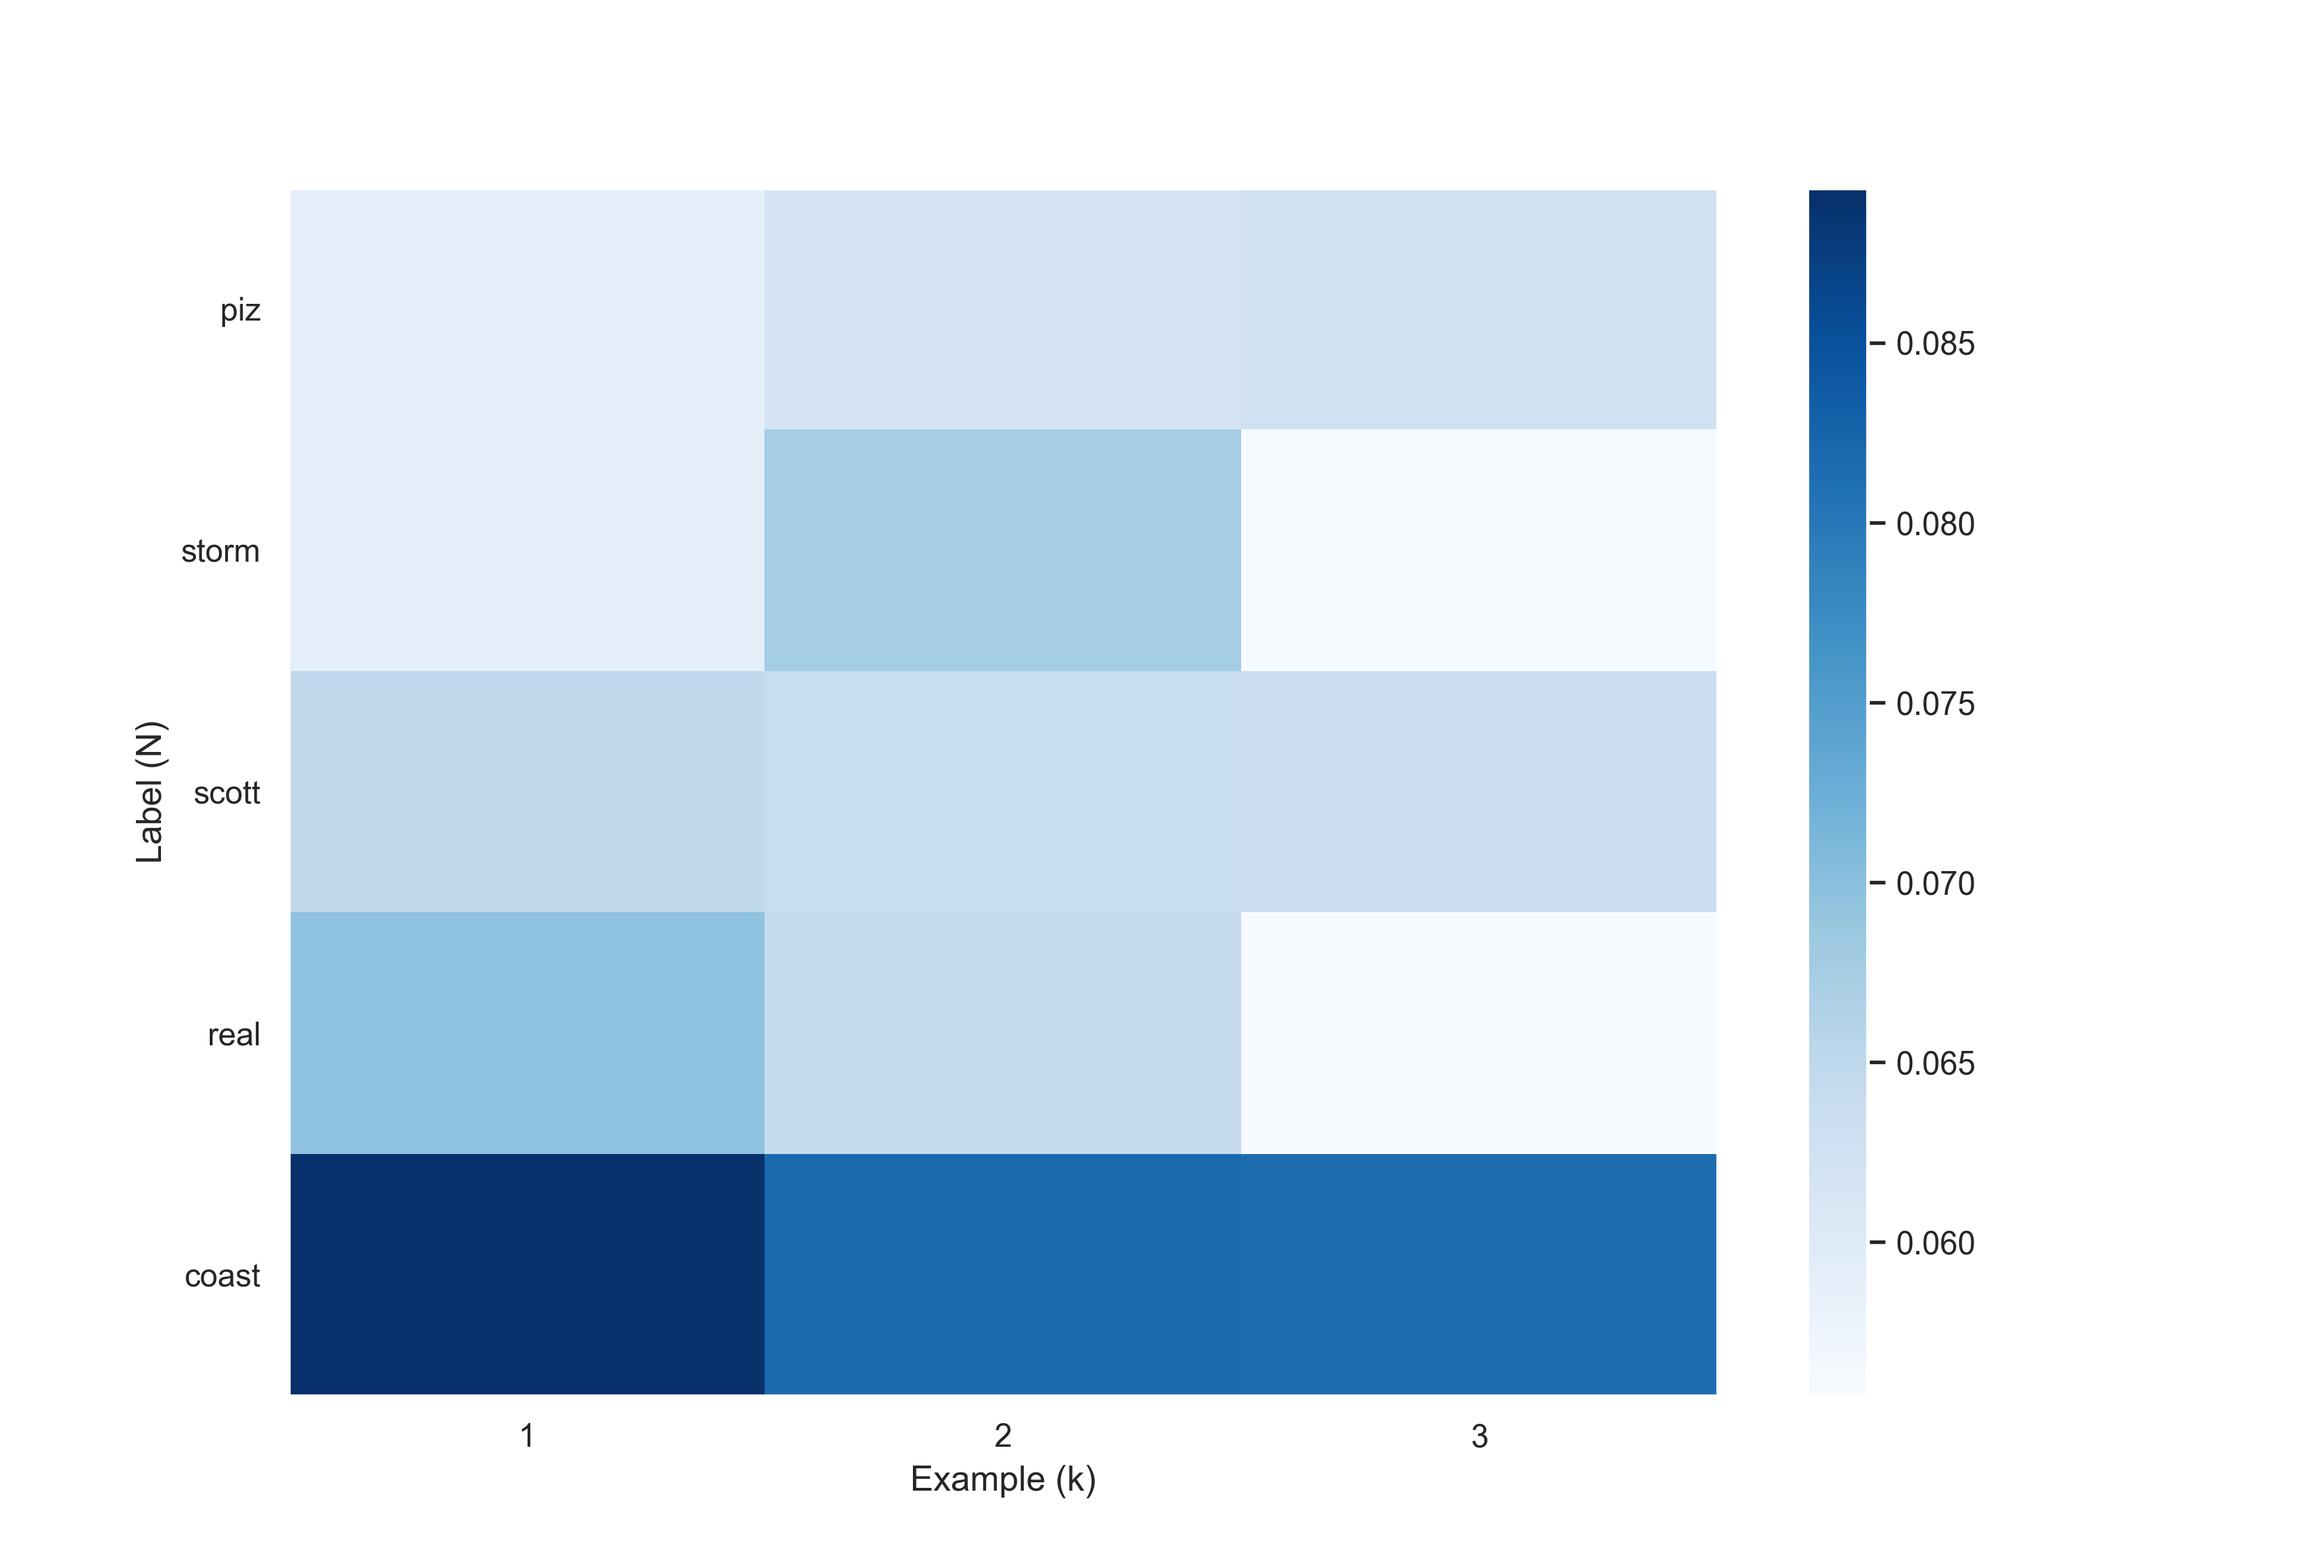
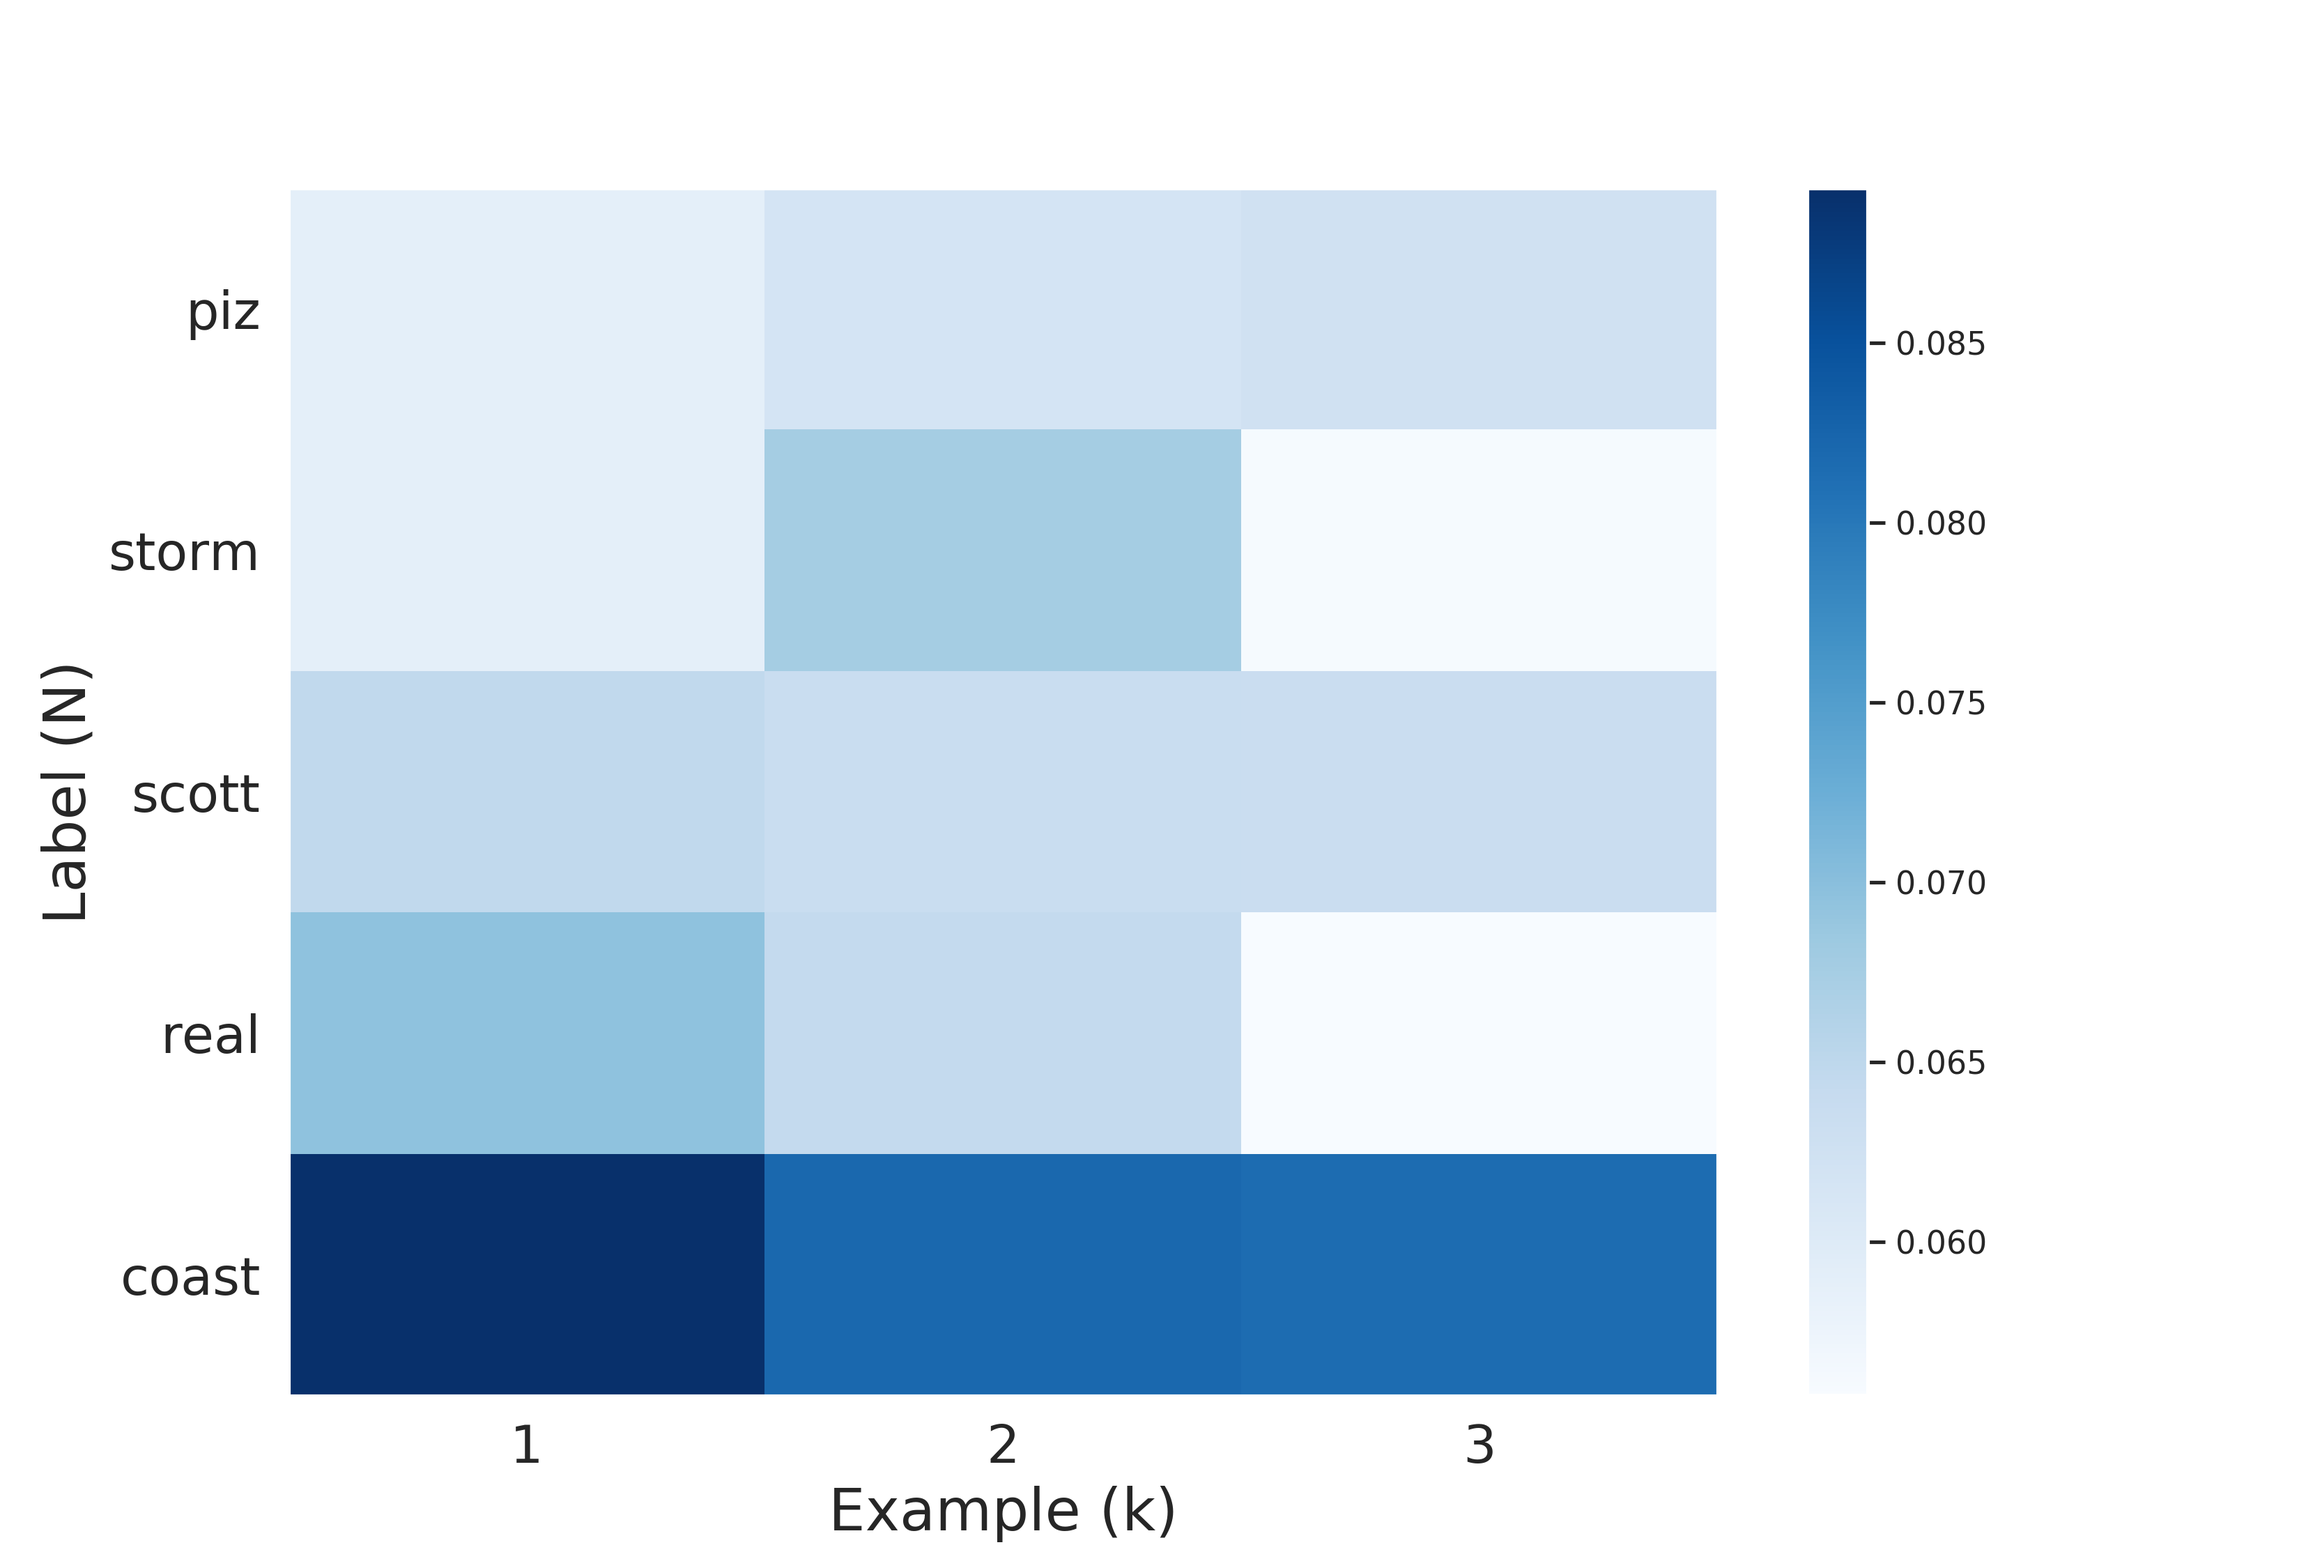
small changes

diff --git a/src/figures.py b/src/figures.py
@@ -93,14 +93,14 @@ def plot_embeddings(model_name, support_embeddings, target_embeddings, labels):
     for label, examples_points in zip(labels, support_points):
         x = examples_points[:, 0]
         y = examples_points[:, 1]
-        ax.scatter(x, y, label=label, s=2**6, edgecolors='w', linewidths=1)
+        ax.scatter(x, y, label=label, s=2**7, edgecolors='w', linewidths=1)
 
     # Plot target set point
     x = target_points[:, 0]
     y = target_points[:, 1]
     ax.scatter(x, y, s=2**8, marker='X')
 
-    ax.legend()
+    ax.legend(fontsize=12)
     ax.set_yticklabels([])
     ax.set_xticklabels([])
 
@@ -134,10 +134,10 @@ def plot_attention_map(model_name, attention, labels):
     # same here
     column_labels = [1, 2, 3]
     axis.invert_yaxis()
-    plt.xlabel('Example (k)')
-    plt.ylabel('Label (N)')
-    axis.set_yticklabels(labels, minor=False)
-    axis.set_xticklabels(column_labels, minor=False)
+    plt.xlabel('Example (k)', fontsize=20)
+    plt.ylabel('Label (N)', fontsize=20)
+    axis.set_yticklabels(labels, minor=False, fontsize=18)
+    axis.set_xticklabels(column_labels, minor=False, fontsize=18)
     fig.set_size_inches(11.03, 7.5)
     plt.colorbar(attention_map)
 
